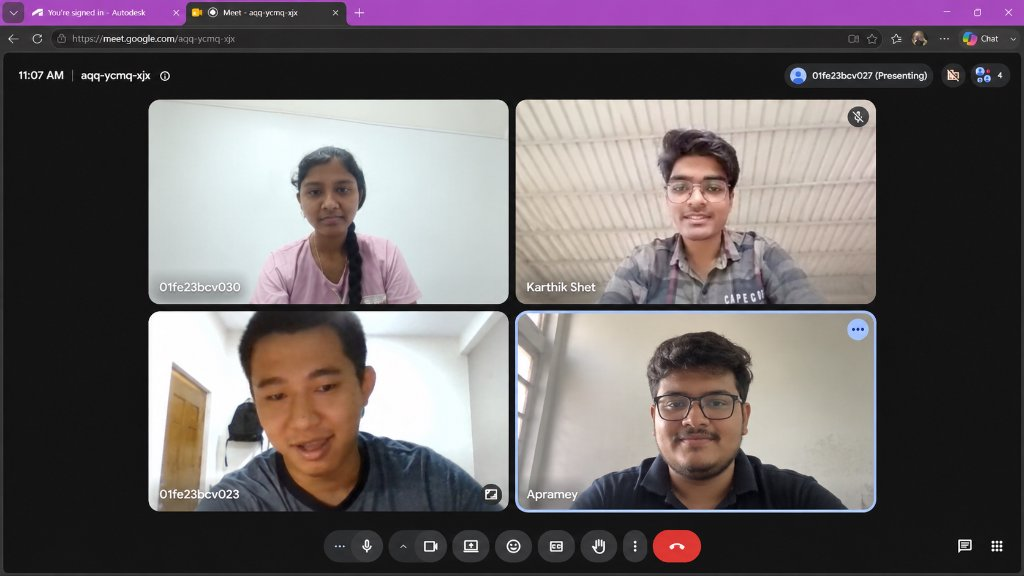
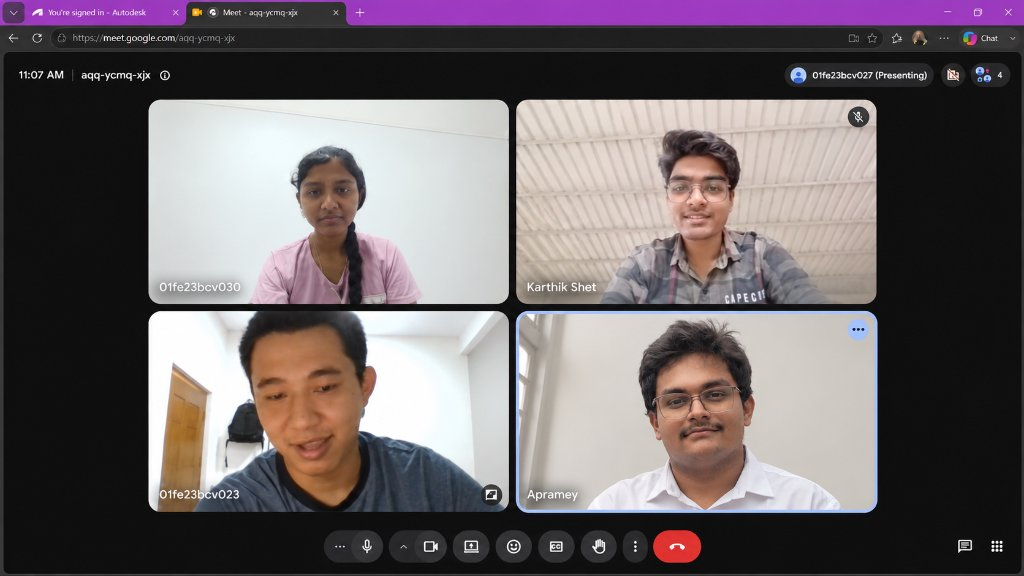
Replace ps1-meeting2.jpg with updated meeting photo and update ps1.html

diff --git a/work/ps1.html b/work/ps1.html
@@ -115,11 +115,8 @@ The probable duration is <b>24–30 months (about 550–700 working days)</b>, t
   <div class="card"><h4>Minutes — Post-site visit &amp; presentation</h4><ul class="tight"><li>Reviewed findings from both visits (Aditi Lodge and ESS RMC).</li><li>Finalised the pre-construction approvals matrix and site logistics plan.</li><li>Delivered team presentation on pre-construction paperwork and divided remaining sheet documentation.</li></ul>
   <p class="note">Attendees: Karthik, Major, Apramey, Vijayalaxmi · 24 Aug 2026</p>
   <div class="card green" style="margin-top:12px"><h4>Outcome</h4><p>Findings consolidated; pre-construction presentation delivered and approved.</p></div></div>
-  <div><figure class="ph r43 " data-src="../images/ps1-meeting2-call.jpg" data-label="Meeting 2 photo"></figure>
-  <div class="cap">Online team review &amp; presentation · 24 Aug 2026 (actual photo)</div>
-  <div style="height:12px"></div>
-  <figure class="ph r43 contain" data-src="../images/ps1-meeting2-slide.jpg" data-label="Presentation slide"></figure>
-  <div class="cap">Presentation deck: Pre-construction paperwork · 24 Aug 2026</div></div>
+  <div><figure class="ph r43 " data-src="../images/ps1-meeting2.jpg" data-label="Meeting 2 photo"></figure>
+  <div class="cap">Online team review &amp; presentation · 24 Aug 2026 (actual photo)</div></div>
 </div><p style="margin-top:14px"><a class="btn" data-file="../docs/ps1.pptx" href="#">Download the team deck</a></p></section>
 <div class="pager"><a href="../index.html#workshop">← All sheets</a><a href="ps2.html">PS 02 · Material Management →</a></div>
 </div>
